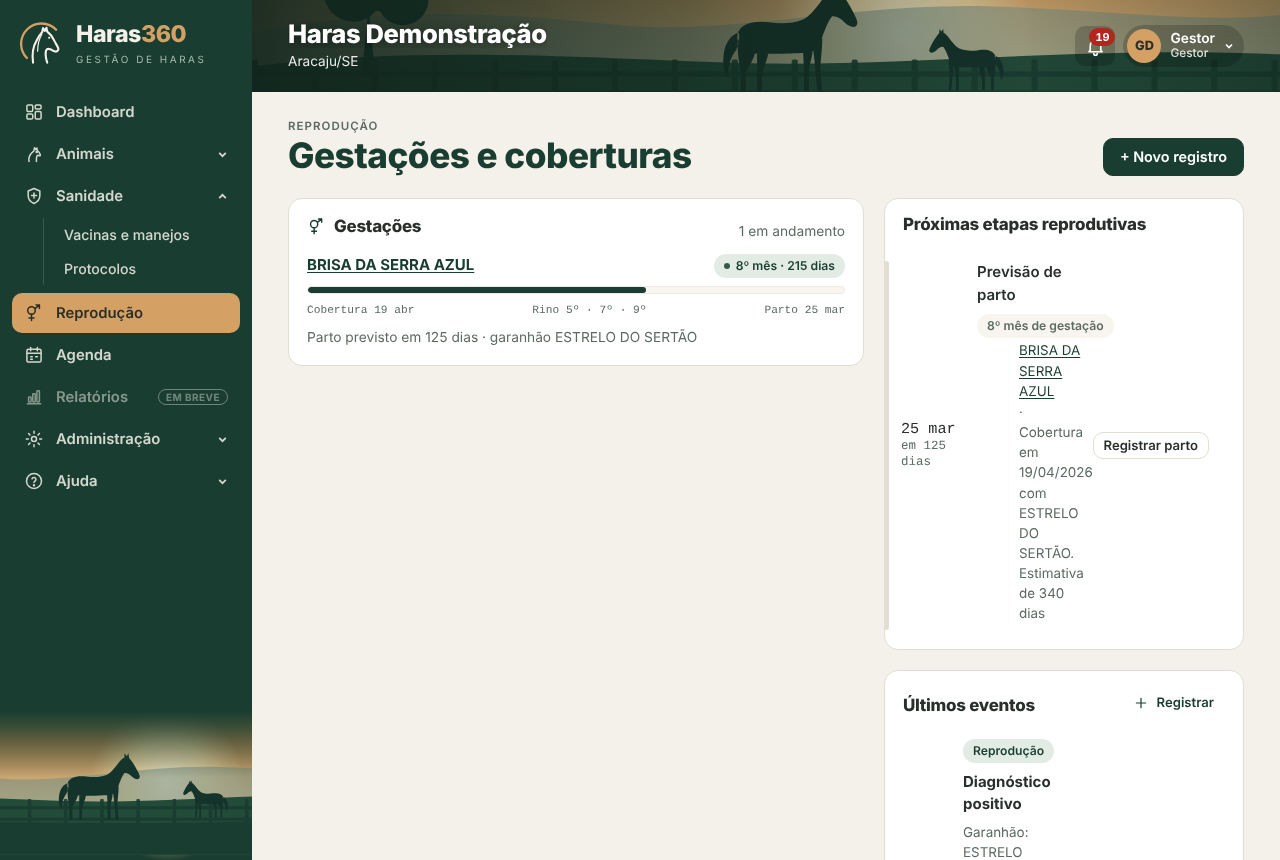
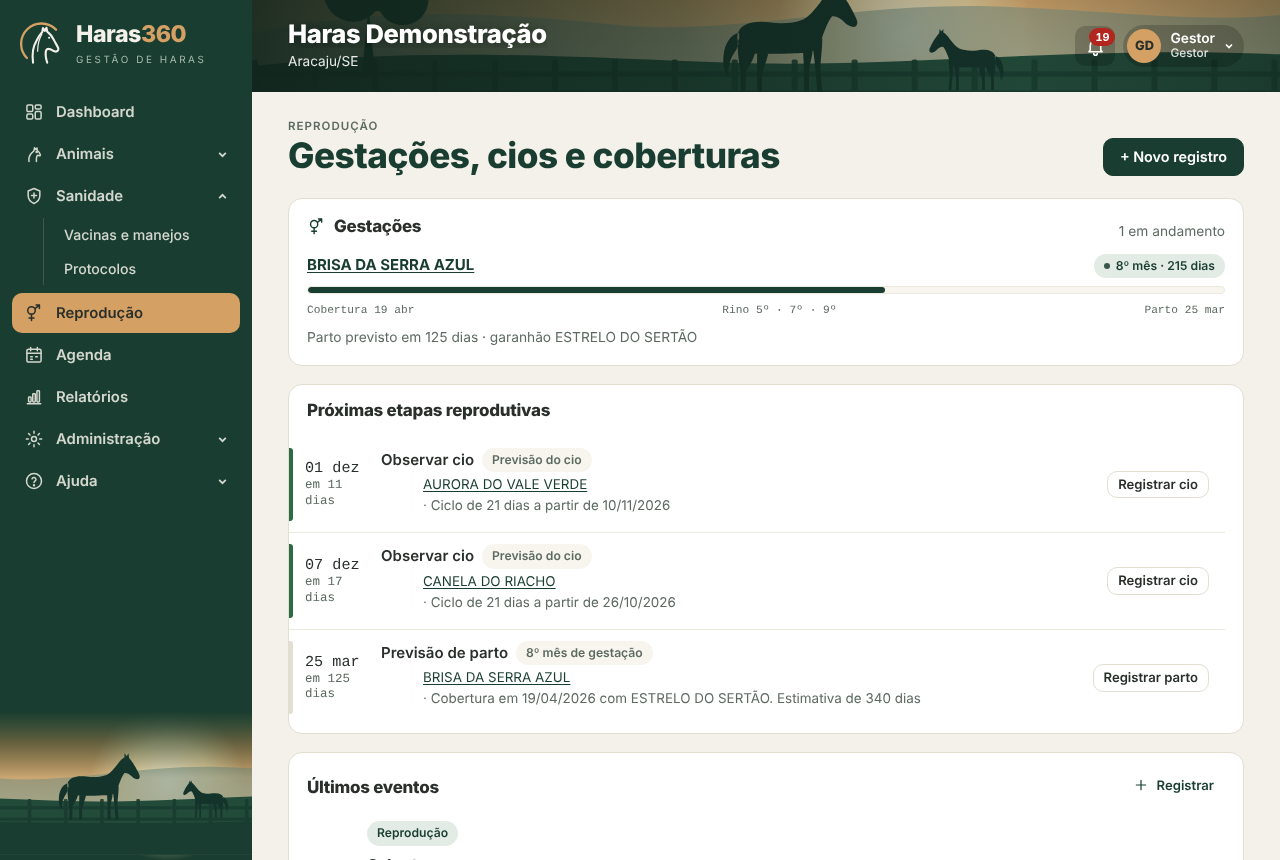
v1.4.0: versão, histórico, README e manual (baixa, cio, relatórios) com capturas novas
Claude-Session: https://claude.ai/code/session_01WrFXA8vd7puHpu6whifFWK

diff --git a/backend/app/static/ajuda.html b/backend/app/static/ajuda.html
@@ -411,7 +411,7 @@ kbd{font-family:var(--f-mono);font-size:.84em;background:var(--surface-2);border
 <header class="acab"><div class="acab-in"><div class="row" style="gap:10px;margin-bottom:12px"><span id="marca-ajuda" class="row" style="gap:10px"><svg class="logo-sim" viewBox="0 0 120 120" aria-hidden="true"><path d="M18 94 A50 50 0 0 1 94 20" fill="none" stroke="#D5A064" stroke-width="6" stroke-linecap="round"/><path d="M34 106 C31 84 34 64 43 49 C48 39 53 31 58 26 L60 16 L65 23 L69 15 L71 25 C78 30 84 38 89 48 C93 56 98 63 100 69 C101 74 97 78 92 77 C87 76 83 73 79 71 C74 69 70 70 68 74 C66 82 67 94 71 106" fill="none" stroke="#F3F1E9" stroke-width="5.5" stroke-linejoin="round" stroke-linecap="round"/><path d="M57 32 C50 44 46 58 46 76" fill="none" stroke="#F3F1E9" stroke-width="3.2" stroke-linecap="round"/><circle cx="76" cy="41" r="2.8" fill="#F3F1E9"/></svg><span class="marca-txt"><b>Haras<i>360</i></b><small>Gestão de haras</small></span></span></div><div class="eyebrow" style="color:var(--forest-muted)">Ajuda</div><h1>Manual do Haras360</h1><p>Como usar o portal do gestor, o Portal Campo e a administração da plataforma. As telas mostram o Haras Demonstração, com dados fictícios.</p></div></header>
 <div class="corpo">
   <nav class="sumario" aria-label="Sumário">
-    <a href="#acesso">Primeiro acesso e 2FA</a><a href="#painel">Dashboard e menus</a><a href="#importar">Importar ABCCMM</a><a href="#animais">Animais e prontuário</a><a href="#agenda">Agenda e protocolos</a><a href="#campo">Portal Campo</a><a href="#app">App Android do caseiro</a><a href="#equipe">Equipe e sessões</a><a href="#parametros">Parametrizações</a><a href="#imagens">Imagens do haras</a><a href="#auditoria">Auditoria</a><a href="#admin">Administração da plataforma</a><a href="#marca">Marca e imagens da plataforma</a><a href="#atualizacao">Atualização e backup</a>
+    <a href="#acesso">Primeiro acesso e 2FA</a><a href="#painel">Dashboard e menus</a><a href="#importar">Importar ABCCMM</a><a href="#animais">Animais e prontuário</a><a href="#baixa">Baixa de animais</a><a href="#agenda">Agenda e protocolos</a><a href="#cio">Cio e reprodução</a><a href="#relatorios">Relatórios</a><a href="#campo">Portal Campo</a><a href="#app">App Android do caseiro</a><a href="#equipe">Equipe e sessões</a><a href="#parametros">Parametrizações</a><a href="#imagens">Imagens do haras</a><a href="#auditoria">Auditoria</a><a href="#admin">Administração da plataforma</a><a href="#marca">Marca e imagens da plataforma</a><a href="#atualizacao">Atualização e backup</a>
   </nav>
   <article>
     <section id="acesso"><h2>Primeiro acesso e verificação em duas etapas</h2>
@@ -423,7 +423,7 @@ kbd{font-family:var(--f-mono);font-size:.84em;background:var(--surface-2);border
     <section id="painel"><h2>Dashboard e menus</h2><span class="perfil">Gestor</span>
       <p>O Dashboard mostra o que precisa de atenção: cinco indicadores (animais, vacinas vencidas, vacinas dos próximos 7 dias, gestações ativas e partos previstos para 30 dias), os próximos eventos, a composição do rebanho, a situação reprodutiva, a lista Atenção agora e os últimos registros feitos pelo caseiro.</p>
       <figure><img src="/ajuda/img/painel.png" alt="Dashboard do gestor" loading="lazy"><figcaption>Dashboard do gestor com o menu lateral.</figcaption></figure>
-      <p>O menu fica na lateral, agrupado por módulo: Dashboard; Animais (Plantel, Importar ABCCMM); Sanidade (Vacinas e manejos, Protocolos); Reprodução; Agenda; Relatórios (em breve); Administração (Equipe, Parametrizações, Auditoria, Assistente, Plano) e Ajuda. Toque no nome do grupo para abrir ou fechar. No celular, o menu abre pelo botão ☰. No cabeçalho ficam o logotipo e o nome do haras, o sino com os avisos não lidos e o menu com o seu nome.</p>
+      <p>O menu fica na lateral, agrupado por módulo: Dashboard; Animais (Plantel, Importar ABCCMM); Sanidade (Vacinas e manejos, Protocolos); Reprodução; Agenda; Relatórios; Administração (Equipe, Parametrizações, Auditoria, Assistente, Plano) e Ajuda. Toque no nome do grupo para abrir ou fechar. No celular, o menu abre pelo botão ☰. No cabeçalho ficam o logotipo e o nome do haras, o sino com os avisos não lidos e o menu com o seu nome.</p>
       <div class="fotos-app">
         <figure><img src="/ajuda/img/sanidade.png" alt="Vacinas e manejos" loading="lazy"><figcaption>Sanidade › Vacinas e manejos.</figcaption></figure>
         <figure><img src="/ajuda/img/reproducao.png" alt="Reprodução" loading="lazy"><figcaption>Reprodução: coberturas, diagnósticos e partos previstos.</figcaption></figure>
@@ -438,10 +438,30 @@ kbd{font-family:var(--f-mono);font-size:.84em;background:var(--surface-2);border
       <p>A ficha do animal tem três abas: Prontuário (histórico com fotos), Agenda (próximas etapas calculadas) e Dados e genealogia (cadastro, pai, mãe e avós, com importação do certificado em PDF quando houver).</p>
       <figure><img src="/ajuda/img/ficha.png" alt="Ficha de uma égua gestante" loading="lazy"><figcaption>Ficha de uma égua gestante, com a barra de gestação.</figcaption></figure>
     </section>
+    <section id="baixa"><h2>Baixa de animais</h2><span class="perfil">Gestor</span>
+      <p>Quando um animal sai do haras, abra a ficha e toque em <b>Dar baixa</b>. Informe a data, o motivo (venda, morte, doação ou transferência), o destino ou comprador, se houver, e uma observação.</p>
+      <figure><img src="/ajuda/img/baixa.png" alt="Janela de baixa do animal" loading="lazy"><figcaption>Baixa com data, motivo e destino.</figcaption></figure>
+      <p>O animal sai do plantel ativo, da agenda, do Dashboard e do app do caseiro, e deixa de contar no limite do plano. O prontuário continua guardado: em Animais › Plantel, escolha <b>Baixados</b> para consultar. Para corrigir um engano, use <b>Desfazer baixa</b> na ficha. A baixa e a volta ficam na auditoria. Se o animal aparecer de novo numa importação ABCCMM, ele continua baixado e o resumo da importação avisa.</p>
+    </section>
     <section id="agenda"><h2>Agenda sanitária e protocolos</h2><span class="perfil">Gestor</span>
       <p>O motor de regras calcula a próxima etapa de cada vacina e manejo a partir do nascimento, do último registro e dos protocolos. Exemplos: série inicial dos potros, primeiro reforço aos 12 meses, reinício da primovacinação quando o reforço vence além da tolerância, rinopneumonite no 5º, 7º e 9º mês da gestação.</p>
       <figure><img src="/ajuda/img/agenda.png" alt="Agenda sanitária" loading="lazy"><figcaption>Agenda agrupada por prazo.</figcaption></figure>
-      <p>Em Manejo › Protocolos você ajusta idades, séries, intervalos e ativa ou desativa cada item. Os padrões seguem a VetJr. UFMG para vacinas e práticas de mercado para os demais manejos; valide com o veterinário do plantel.</p>
+      <p>Em Sanidade › Protocolos você ajusta idades, séries, intervalos e ativa ou desativa cada item. Os padrões seguem a VetJr. UFMG para vacinas e práticas de mercado para os demais manejos; valide com o veterinário do plantel.</p>
+    </section>
+    <section id="cio"><h2>Cio e reprodução</h2><span class="perfil">Gestor</span><span class="perfil">Caseiro</span>
+      <p>Registre o cio em Reprodução › Registrar, no Portal Campo ou no app (mesmo sem internet): escolha o tipo Reprodução e o evento <b>Cio</b>. Informe os sinais observados e, se houve exame, o ovário, o tamanho do folículo em milímetros e o edema uterino de 0 a 3.</p>
+      <figure><img src="/ajuda/img/cio.png" alt="Registro de cio com os dados do exame" loading="lazy"><figcaption>Cio com sinais e dados do exame.</figcaption></figure>
+      <p><b>Previsão do próximo cio:</b> o Haras360 soma o ciclo (21 dias, ajustável) ao último cio, cobertura, inseminação ou aborto e cria a tarefa <b>Observar cio</b> na Agenda e na tela Hoje do caseiro. A previsão atrasada fica visível por até 3 dias e depois passa ao ciclo seguinte. A égua sai da previsão com o diagnóstico positivo e volta depois de um diagnóstico negativo, aborto ou parto.</p>
+      <p><b>Cio do potro:</b> depois do parto, sem cio registrado, aparece a tarefa <b>Cio do potro</b> entre o 7º e o 12º dia. Em Administração › Parametrizações › Reprodução você liga ou desliga a previsão e ajusta o ciclo e essa janela.</p>
+    </section>
+    <section id="relatorios"><h2>Relatórios</h2><span class="perfil">Gestor</span>
+      <p>Em <b>Relatórios</b>, quatro abas mostram indicadores, gráficos e tabelas do período escolhido (padrão: os últimos 12 meses), de um animal ou de uma categoria (éguas, machos, potros, outros):</p>
+      <ul><li><b>Sanitário:</b> procedimentos feitos, atrasados hoje, animais em dia, vacinas aplicadas, pendências e resumo por protocolo.</li><li><b>Reprodutivo:</b> cios, coberturas e inseminações, taxa de prenhez (positivos sobre diagnósticos), partos, éguas prenhes e vazias, próximo cio de cada égua e intervalo médio entre partos.</li><li><b>Plantel:</b> composição por categoria e idade, entradas (nascimento, importação ou cadastro) e saídas por motivo.</li><li><b>Atividade do campo:</b> registros do caseiro por pessoa, tipo e origem (app ou Portal Campo), com fotos e áudios.</li></ul>
+      <div class="fotos-app">
+        <figure><img src="/ajuda/img/relatorios.png" alt="Relatório sanitário" loading="lazy"><figcaption>Relatório sanitário.</figcaption></figure>
+        <figure><img src="/ajuda/img/relatorio-reprodutivo.png" alt="Relatório reprodutivo" loading="lazy"><figcaption>Relatório reprodutivo.</figcaption></figure>
+      </div>
+      <p>Toque numa linha para abrir a ficha do animal. <b>Excel</b> baixa uma planilha com a aba Resumo e uma aba por tabela, com filtros e o link "Abrir" para a ficha. <b>CSV</b> baixa o mesmo conteúdo em texto separado por ponto e vírgula, que o Excel abre com acentos. Cada exportação fica na auditoria. O administrador libera ou bloqueia os relatórios por plano.</p>
     </section>
     <section id="campo"><h2>Portal Campo do caseiro</h2><span class="perfil">Caseiro</span>
       <p>Feito para o celular: tarefas do dia, fichas dos animais, registro com fotos e ocorrências. Ao tocar em Registrar em uma tarefa, o formulário já vem preenchido. O botão <b>Registrar ocorrência</b> fica no topo da tela Hoje. A barra de baixo tem Hoje, Animais, Agenda (próximos 30 dias) e Mais (avisos, assistente, instalar o app, senha, manual e sair).</p>
@@ -471,7 +491,7 @@ kbd{font-family:var(--f-mono);font-size:.84em;background:var(--surface-2);border
       <figure><img src="/ajuda/img/equipe.png" alt="Equipe e sessões" loading="lazy"><figcaption>Usuários, situação do 2FA e sessões ativas.</figcaption></figure>
     </section>
     <section id="parametros"><h2>Parametrizações do haras</h2><span class="perfil">Gestor</span>
-      <p>Logotipo do haras, dados do haras, reforço da raiva anual ou semestral, dias de gestação usados na previsão de parto e tolerância para reiniciar a primovacinação.</p><p>O logotipo aparece na barra superior do Portal do Gestor e do Portal Campo. Envie PNG, JPG ou WebP com fundo branco ou transparente: o sistema recorta as margens vazias e reduz a imagem. O administrador também pode enviar ou trocar o logotipo ao cadastrar o haras.</p>
+      <p>Logotipo do haras, dados do haras, reforço da raiva anual ou semestral, dias de gestação usados na previsão de parto, tolerância para reiniciar a primovacinação e, em Reprodução, a previsão do cio (ligada ou desligada, duração do ciclo e janela do cio do potro).</p><p>O logotipo aparece na barra superior do Portal do Gestor e do Portal Campo. Envie PNG, JPG ou WebP com fundo branco ou transparente: o sistema recorta as margens vazias e reduz a imagem. O administrador também pode enviar ou trocar o logotipo ao cadastrar o haras.</p>
       <figure><img src="/ajuda/img/parametros.png" alt="Parametrizações do haras" loading="lazy"><figcaption>Parametrizações do haras.</figcaption></figure>
     </section>
     <section id="imagens"><h2>Imagens do haras</h2><span class="perfil">Gestor</span>

diff --git a/web/ajuda.html b/web/ajuda.html
@@ -30,7 +30,7 @@ kbd{font-family:var(--f-mono);font-size:.84em;background:var(--surface-2);border
 <header class="acab"><div class="acab-in"><div class="row" style="gap:10px;margin-bottom:12px"><span id="marca-ajuda" class="row" style="gap:10px"><svg class="logo-sim" viewBox="0 0 120 120" aria-hidden="true"><path d="M18 94 A50 50 0 0 1 94 20" fill="none" stroke="#D5A064" stroke-width="6" stroke-linecap="round"/><path d="M34 106 C31 84 34 64 43 49 C48 39 53 31 58 26 L60 16 L65 23 L69 15 L71 25 C78 30 84 38 89 48 C93 56 98 63 100 69 C101 74 97 78 92 77 C87 76 83 73 79 71 C74 69 70 70 68 74 C66 82 67 94 71 106" fill="none" stroke="#F3F1E9" stroke-width="5.5" stroke-linejoin="round" stroke-linecap="round"/><path d="M57 32 C50 44 46 58 46 76" fill="none" stroke="#F3F1E9" stroke-width="3.2" stroke-linecap="round"/><circle cx="76" cy="41" r="2.8" fill="#F3F1E9"/></svg><span class="marca-txt"><b>Haras<i>360</i></b><small>Gestão de haras</small></span></span></div><div class="eyebrow" style="color:var(--forest-muted)">Ajuda</div><h1>Manual do Haras360</h1><p>Como usar o portal do gestor, o Portal Campo e a administração da plataforma. As telas mostram o Haras Demonstração, com dados fictícios.</p></div></header>
 <div class="corpo">
   <nav class="sumario" aria-label="Sumário">
-    <a href="#acesso">Primeiro acesso e 2FA</a><a href="#painel">Dashboard e menus</a><a href="#importar">Importar ABCCMM</a><a href="#animais">Animais e prontuário</a><a href="#agenda">Agenda e protocolos</a><a href="#campo">Portal Campo</a><a href="#app">App Android do caseiro</a><a href="#equipe">Equipe e sessões</a><a href="#parametros">Parametrizações</a><a href="#imagens">Imagens do haras</a><a href="#auditoria">Auditoria</a><a href="#admin">Administração da plataforma</a><a href="#marca">Marca e imagens da plataforma</a><a href="#atualizacao">Atualização e backup</a>
+    <a href="#acesso">Primeiro acesso e 2FA</a><a href="#painel">Dashboard e menus</a><a href="#importar">Importar ABCCMM</a><a href="#animais">Animais e prontuário</a><a href="#baixa">Baixa de animais</a><a href="#agenda">Agenda e protocolos</a><a href="#cio">Cio e reprodução</a><a href="#relatorios">Relatórios</a><a href="#campo">Portal Campo</a><a href="#app">App Android do caseiro</a><a href="#equipe">Equipe e sessões</a><a href="#parametros">Parametrizações</a><a href="#imagens">Imagens do haras</a><a href="#auditoria">Auditoria</a><a href="#admin">Administração da plataforma</a><a href="#marca">Marca e imagens da plataforma</a><a href="#atualizacao">Atualização e backup</a>
   </nav>
   <article>
     <section id="acesso"><h2>Primeiro acesso e verificação em duas etapas</h2>
@@ -42,7 +42,7 @@ kbd{font-family:var(--f-mono);font-size:.84em;background:var(--surface-2);border
     <section id="painel"><h2>Dashboard e menus</h2><span class="perfil">Gestor</span>
       <p>O Dashboard mostra o que precisa de atenção: cinco indicadores (animais, vacinas vencidas, vacinas dos próximos 7 dias, gestações ativas e partos previstos para 30 dias), os próximos eventos, a composição do rebanho, a situação reprodutiva, a lista Atenção agora e os últimos registros feitos pelo caseiro.</p>
       <figure><img src="/ajuda/img/painel.png" alt="Dashboard do gestor" loading="lazy"><figcaption>Dashboard do gestor com o menu lateral.</figcaption></figure>
-      <p>O menu fica na lateral, agrupado por módulo: Dashboard; Animais (Plantel, Importar ABCCMM); Sanidade (Vacinas e manejos, Protocolos); Reprodução; Agenda; Relatórios (em breve); Administração (Equipe, Parametrizações, Auditoria, Assistente, Plano) e Ajuda. Toque no nome do grupo para abrir ou fechar. No celular, o menu abre pelo botão ☰. No cabeçalho ficam o logotipo e o nome do haras, o sino com os avisos não lidos e o menu com o seu nome.</p>
+      <p>O menu fica na lateral, agrupado por módulo: Dashboard; Animais (Plantel, Importar ABCCMM); Sanidade (Vacinas e manejos, Protocolos); Reprodução; Agenda; Relatórios; Administração (Equipe, Parametrizações, Auditoria, Assistente, Plano) e Ajuda. Toque no nome do grupo para abrir ou fechar. No celular, o menu abre pelo botão ☰. No cabeçalho ficam o logotipo e o nome do haras, o sino com os avisos não lidos e o menu com o seu nome.</p>
       <div class="fotos-app">
         <figure><img src="/ajuda/img/sanidade.png" alt="Vacinas e manejos" loading="lazy"><figcaption>Sanidade › Vacinas e manejos.</figcaption></figure>
         <figure><img src="/ajuda/img/reproducao.png" alt="Reprodução" loading="lazy"><figcaption>Reprodução: coberturas, diagnósticos e partos previstos.</figcaption></figure>
@@ -57,10 +57,30 @@ kbd{font-family:var(--f-mono);font-size:.84em;background:var(--surface-2);border
       <p>A ficha do animal tem três abas: Prontuário (histórico com fotos), Agenda (próximas etapas calculadas) e Dados e genealogia (cadastro, pai, mãe e avós, com importação do certificado em PDF quando houver).</p>
       <figure><img src="/ajuda/img/ficha.png" alt="Ficha de uma égua gestante" loading="lazy"><figcaption>Ficha de uma égua gestante, com a barra de gestação.</figcaption></figure>
     </section>
+    <section id="baixa"><h2>Baixa de animais</h2><span class="perfil">Gestor</span>
+      <p>Quando um animal sai do haras, abra a ficha e toque em <b>Dar baixa</b>. Informe a data, o motivo (venda, morte, doação ou transferência), o destino ou comprador, se houver, e uma observação.</p>
+      <figure><img src="/ajuda/img/baixa.png" alt="Janela de baixa do animal" loading="lazy"><figcaption>Baixa com data, motivo e destino.</figcaption></figure>
+      <p>O animal sai do plantel ativo, da agenda, do Dashboard e do app do caseiro, e deixa de contar no limite do plano. O prontuário continua guardado: em Animais › Plantel, escolha <b>Baixados</b> para consultar. Para corrigir um engano, use <b>Desfazer baixa</b> na ficha. A baixa e a volta ficam na auditoria. Se o animal aparecer de novo numa importação ABCCMM, ele continua baixado e o resumo da importação avisa.</p>
+    </section>
     <section id="agenda"><h2>Agenda sanitária e protocolos</h2><span class="perfil">Gestor</span>
       <p>O motor de regras calcula a próxima etapa de cada vacina e manejo a partir do nascimento, do último registro e dos protocolos. Exemplos: série inicial dos potros, primeiro reforço aos 12 meses, reinício da primovacinação quando o reforço vence além da tolerância, rinopneumonite no 5º, 7º e 9º mês da gestação.</p>
       <figure><img src="/ajuda/img/agenda.png" alt="Agenda sanitária" loading="lazy"><figcaption>Agenda agrupada por prazo.</figcaption></figure>
-      <p>Em Manejo › Protocolos você ajusta idades, séries, intervalos e ativa ou desativa cada item. Os padrões seguem a VetJr. UFMG para vacinas e práticas de mercado para os demais manejos; valide com o veterinário do plantel.</p>
+      <p>Em Sanidade › Protocolos você ajusta idades, séries, intervalos e ativa ou desativa cada item. Os padrões seguem a VetJr. UFMG para vacinas e práticas de mercado para os demais manejos; valide com o veterinário do plantel.</p>
+    </section>
+    <section id="cio"><h2>Cio e reprodução</h2><span class="perfil">Gestor</span><span class="perfil">Caseiro</span>
+      <p>Registre o cio em Reprodução › Registrar, no Portal Campo ou no app (mesmo sem internet): escolha o tipo Reprodução e o evento <b>Cio</b>. Informe os sinais observados e, se houve exame, o ovário, o tamanho do folículo em milímetros e o edema uterino de 0 a 3.</p>
+      <figure><img src="/ajuda/img/cio.png" alt="Registro de cio com os dados do exame" loading="lazy"><figcaption>Cio com sinais e dados do exame.</figcaption></figure>
+      <p><b>Previsão do próximo cio:</b> o Haras360 soma o ciclo (21 dias, ajustável) ao último cio, cobertura, inseminação ou aborto e cria a tarefa <b>Observar cio</b> na Agenda e na tela Hoje do caseiro. A previsão atrasada fica visível por até 3 dias e depois passa ao ciclo seguinte. A égua sai da previsão com o diagnóstico positivo e volta depois de um diagnóstico negativo, aborto ou parto.</p>
+      <p><b>Cio do potro:</b> depois do parto, sem cio registrado, aparece a tarefa <b>Cio do potro</b> entre o 7º e o 12º dia. Em Administração › Parametrizações › Reprodução você liga ou desliga a previsão e ajusta o ciclo e essa janela.</p>
+    </section>
+    <section id="relatorios"><h2>Relatórios</h2><span class="perfil">Gestor</span>
+      <p>Em <b>Relatórios</b>, quatro abas mostram indicadores, gráficos e tabelas do período escolhido (padrão: os últimos 12 meses), de um animal ou de uma categoria (éguas, machos, potros, outros):</p>
+      <ul><li><b>Sanitário:</b> procedimentos feitos, atrasados hoje, animais em dia, vacinas aplicadas, pendências e resumo por protocolo.</li><li><b>Reprodutivo:</b> cios, coberturas e inseminações, taxa de prenhez (positivos sobre diagnósticos), partos, éguas prenhes e vazias, próximo cio de cada égua e intervalo médio entre partos.</li><li><b>Plantel:</b> composição por categoria e idade, entradas (nascimento, importação ou cadastro) e saídas por motivo.</li><li><b>Atividade do campo:</b> registros do caseiro por pessoa, tipo e origem (app ou Portal Campo), com fotos e áudios.</li></ul>
+      <div class="fotos-app">
+        <figure><img src="/ajuda/img/relatorios.png" alt="Relatório sanitário" loading="lazy"><figcaption>Relatório sanitário.</figcaption></figure>
+        <figure><img src="/ajuda/img/relatorio-reprodutivo.png" alt="Relatório reprodutivo" loading="lazy"><figcaption>Relatório reprodutivo.</figcaption></figure>
+      </div>
+      <p>Toque numa linha para abrir a ficha do animal. <b>Excel</b> baixa uma planilha com a aba Resumo e uma aba por tabela, com filtros e o link "Abrir" para a ficha. <b>CSV</b> baixa o mesmo conteúdo em texto separado por ponto e vírgula, que o Excel abre com acentos. Cada exportação fica na auditoria. O administrador libera ou bloqueia os relatórios por plano.</p>
     </section>
     <section id="campo"><h2>Portal Campo do caseiro</h2><span class="perfil">Caseiro</span>
       <p>Feito para o celular: tarefas do dia, fichas dos animais, registro com fotos e ocorrências. Ao tocar em Registrar em uma tarefa, o formulário já vem preenchido. O botão <b>Registrar ocorrência</b> fica no topo da tela Hoje. A barra de baixo tem Hoje, Animais, Agenda (próximos 30 dias) e Mais (avisos, assistente, instalar o app, senha, manual e sair).</p>
@@ -90,7 +110,7 @@ kbd{font-family:var(--f-mono);font-size:.84em;background:var(--surface-2);border
       <figure><img src="/ajuda/img/equipe.png" alt="Equipe e sessões" loading="lazy"><figcaption>Usuários, situação do 2FA e sessões ativas.</figcaption></figure>
     </section>
     <section id="parametros"><h2>Parametrizações do haras</h2><span class="perfil">Gestor</span>
-      <p>Logotipo do haras, dados do haras, reforço da raiva anual ou semestral, dias de gestação usados na previsão de parto e tolerância para reiniciar a primovacinação.</p><p>O logotipo aparece na barra superior do Portal do Gestor e do Portal Campo. Envie PNG, JPG ou WebP com fundo branco ou transparente: o sistema recorta as margens vazias e reduz a imagem. O administrador também pode enviar ou trocar o logotipo ao cadastrar o haras.</p>
+      <p>Logotipo do haras, dados do haras, reforço da raiva anual ou semestral, dias de gestação usados na previsão de parto, tolerância para reiniciar a primovacinação e, em Reprodução, a previsão do cio (ligada ou desligada, duração do ciclo e janela do cio do potro).</p><p>O logotipo aparece na barra superior do Portal do Gestor e do Portal Campo. Envie PNG, JPG ou WebP com fundo branco ou transparente: o sistema recorta as margens vazias e reduz a imagem. O administrador também pode enviar ou trocar o logotipo ao cadastrar o haras.</p>
       <figure><img src="/ajuda/img/parametros.png" alt="Parametrizações do haras" loading="lazy"><figcaption>Parametrizações do haras.</figcaption></figure>
     </section>
     <section id="imagens"><h2>Imagens do haras</h2><span class="perfil">Gestor</span>

diff --git a/docs/HISTORICO.md b/docs/HISTORICO.md
@@ -2,6 +2,22 @@
 
 Uma nota por versão, da mais recente para a mais antiga.
 
+## v1.4.0 · 20/11/2026 · Relatórios, registro de cio e baixa de animais
+* **Relatórios (Portal do Gestor):**
+  * menu Relatórios com quatro abas: Sanitário, Reprodutivo, Plantel e Atividade do campo;
+  * filtros de período (padrão: últimos 12 meses), animal e categoria; indicadores, gráficos (linha, barras e rosca) e tabelas; linha clicável abre a ficha;
+  * indicadores principais: animais em dia, taxa de prenhez, éguas prenhes, intervalo médio entre partos, entradas e saídas, registros do caseiro por pessoa e origem;
+  * exportação Excel (.xlsx, aba Resumo e uma aba por tabela, com link para a ficha) e CSV (ponto e vírgula, acentos para o Excel), registrada na auditoria;
+  * só para o gestor; novo módulo "Relatórios e exportação" na grade de planos, liberado por padrão.
+* **Registro de cio:**
+  * evento Cio no Portal do Gestor, no Portal Campo e no app (offline), com sinais observados e dados do exame (ovário, folículo em mm, edema uterino de 0 a 3);
+  * previsão do próximo cio pelo ciclo (21 dias, ajustável de 18 a 25) a partir do último cio, cobertura, inseminação ou aborto, até o diagnóstico positivo; tarefa "Observar cio" na Agenda e na tela Hoje;
+  * cio do potro do 7º ao 12º dia após o parto (janela ajustável);
+  * Parametrizações › Reprodução: ligar ou desligar a previsão, ciclo e janela.
+* **Baixa de animais:** Dar baixa na ficha (venda, morte, doação ou transferência, com destino e observação), filtro Baixados no plantel, Desfazer baixa com confirmação, auditoria e importação ABCCMM que não reativa animal baixado. Migração 005.
+* **Ajustes:** botão vermelho nas confirmações de ação sensível; nomes das ações de imagem, baixa e exportação na auditoria; termos novos no glossário.
+* **Testes:** 13 testes novos do motor e da API (79 no total), testes de unidade do app para o cio, verificação visual das quatro abas com download das planilhas, do cio e da baixa, e emulador com cio registrado sem Wi-Fi e conferido no servidor.
+
 ## v1.3.0 · 20/11/2026 · Nova identidade visual e personalização por imagens
 * **Identidade visual nova nos portais e no app:**
   * logotipo próprio (perfil de cavalo com arco dourado) e ícone novo do app;

diff --git a/README.md b/README.md
@@ -17,7 +17,8 @@ A especificação aprovada está em [`docs/ESPECIFICACAO.md`](docs/ESPECIFICACAO
 | v1.1.0 | 20/11/2026 | etapa/1.1-app-android | App Android do caseiro: offline, envio só no Wi-Fi, vínculo por QR Code, APK assinado servido pelo próprio servidor | Publicada |
 | v1.1.1 | 20/11/2026 | etapa/1.1.1-instalador | Instalador em VM compartilhada (porta livre, Caddy preservado, fuso), QR Code do 2FA, botão do app, tela de Administradores | Publicada |
 | v1.2.0 | 20/11/2026 | etapa/1.2-audio | Áudio nos registros do caseiro; chave pública no pacote; erro de atualização visível; SHA-256 em HTTP | Publicada |
-| v1.3.0 | 20/11/2026 | etapa/1.3-identidade-visual | Nova identidade visual (logotipo, paleta, Manrope e Inter), menu lateral por módulos, novo Dashboard, app com Hoje, Animais, Agenda e Mais; imagens próprias da plataforma e de cada haras | Em teste (PR) |
+| v1.3.0 | 20/11/2026 | etapa/1.3-identidade-visual | Nova identidade visual (logotipo, paleta, Manrope e Inter), menu lateral por módulos, novo Dashboard, app com Hoje, Animais, Agenda e Mais; imagens próprias da plataforma e de cada haras | Publicada |
+| v1.4.0 | 20/11/2026 | etapa/1.4-relatorios-cio | Relatórios sanitário, reprodutivo, plantel e campo com gráficos, Excel e CSV; registro e previsão de cio (cio do potro); baixa de animais | Em teste (PR) |
 
 Notas de cada versão: [`docs/HISTORICO.md`](docs/HISTORICO.md).
 
